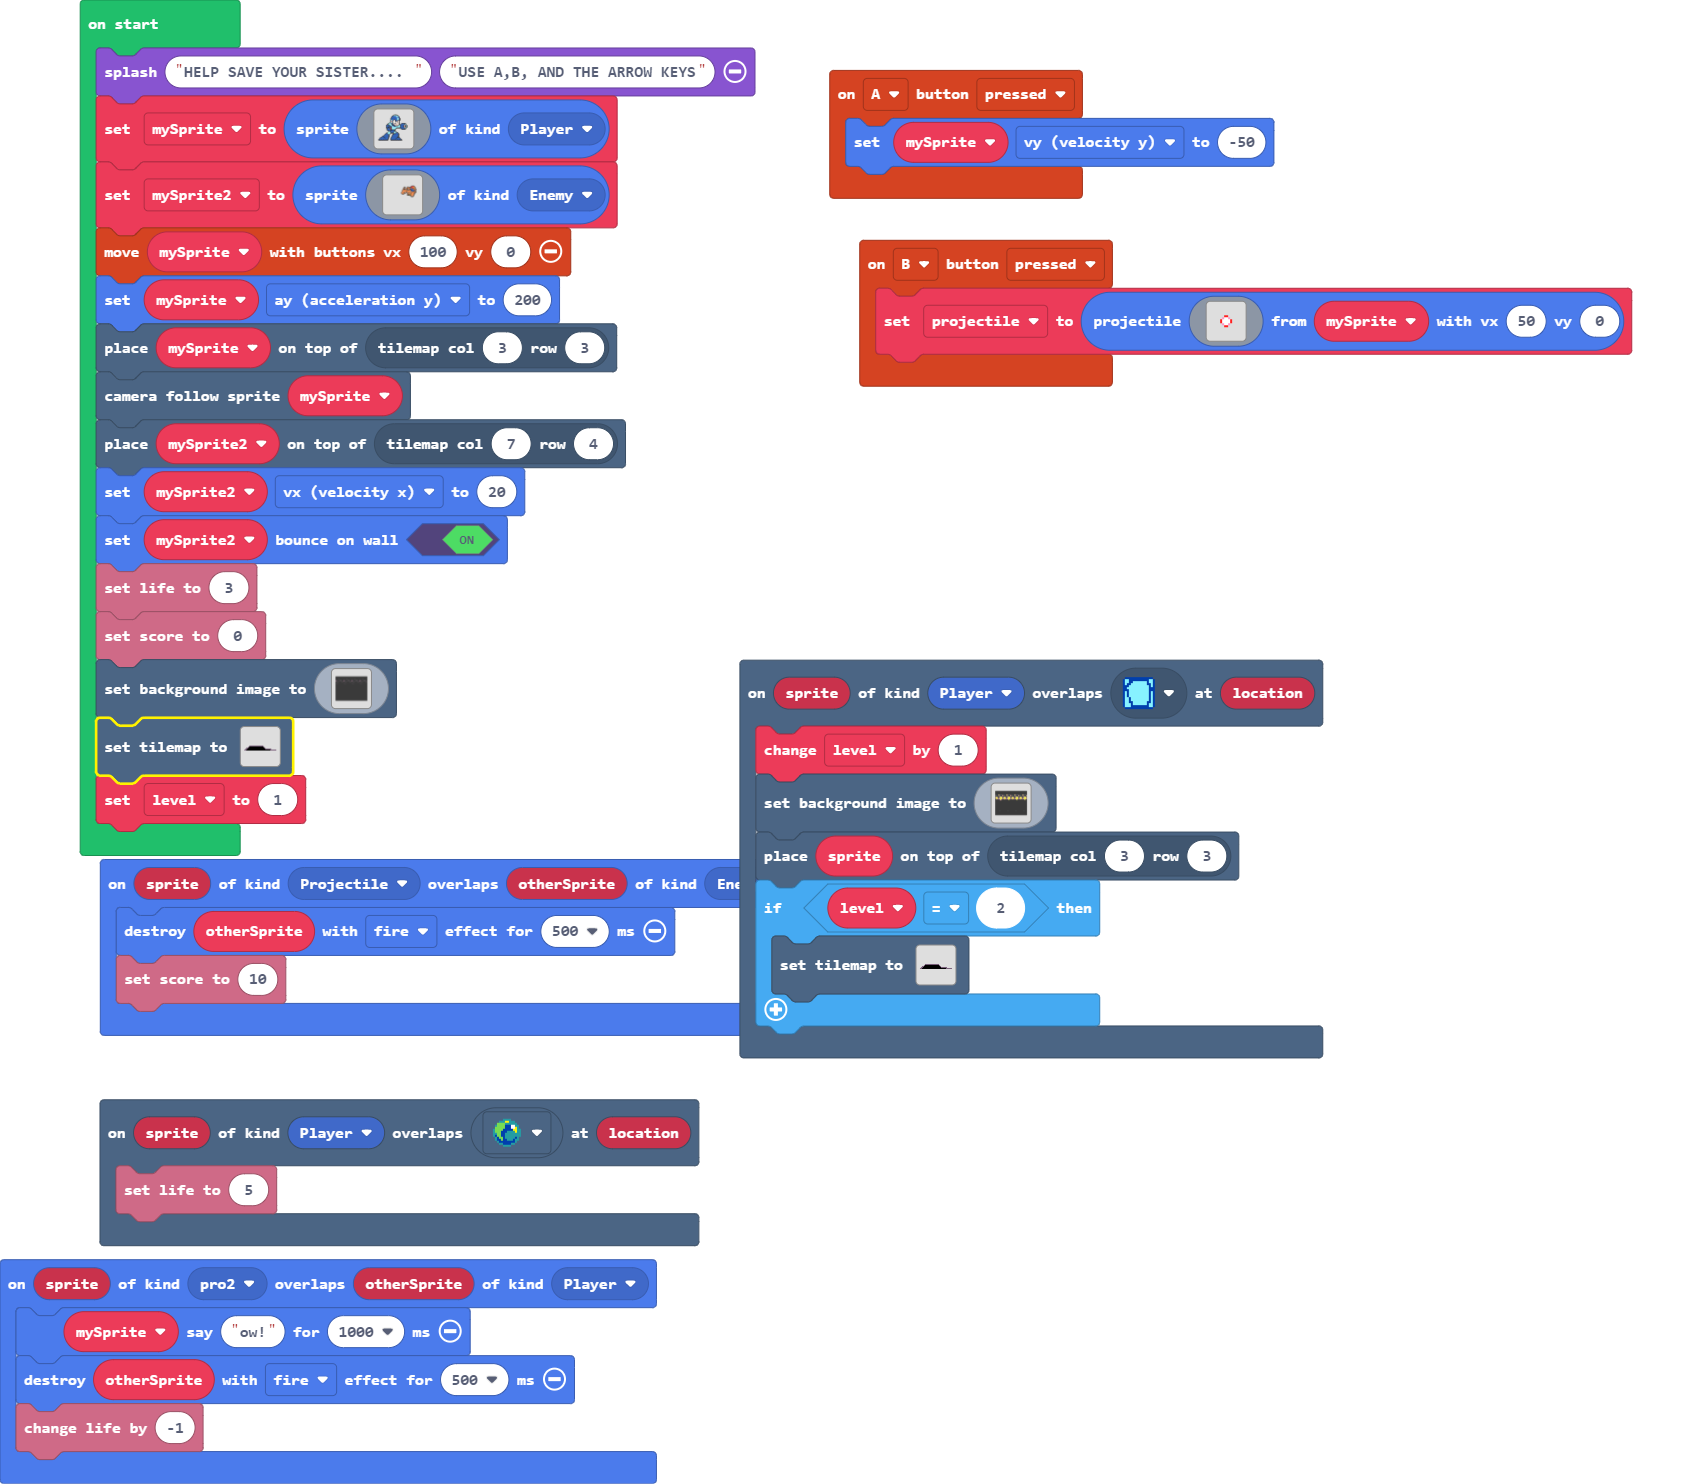
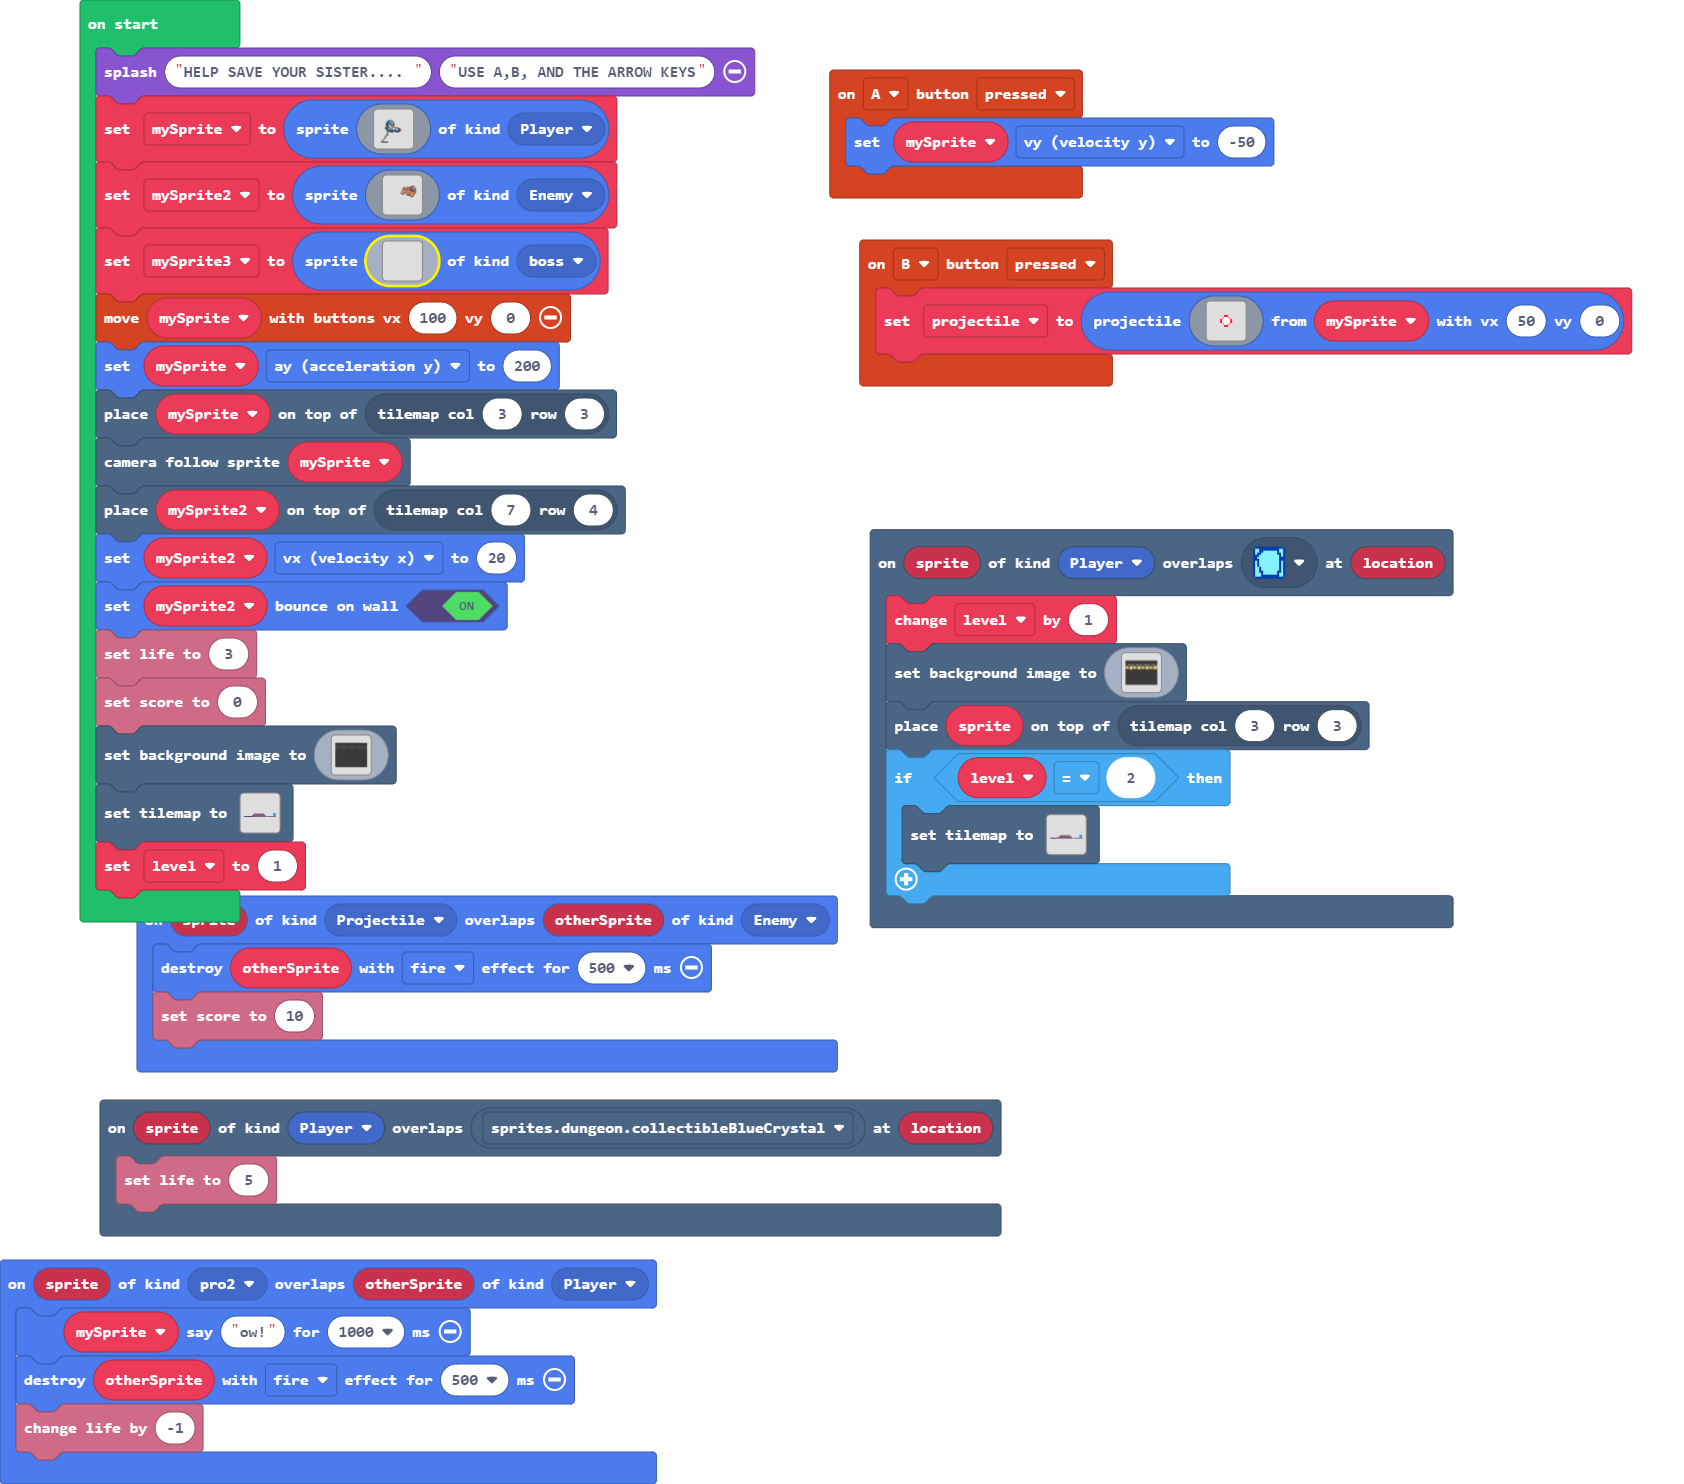
Update main.blocks, main.ts, tilemap.g.jres, tilemap.g.ts

Changed region(s): [[0.0309, 0.155, 0.8646, 0.8679], [0.8029, 0.186, 0.8337, 0.217], [0.2162, 0.062, 0.247, 0.093]]

diff --git a/main.ts b/main.ts
@@ -1,5 +1,6 @@
 namespace SpriteKind {
     export const pro2 = SpriteKind.create()
+    export const boss = SpriteKind.create()
 }
 controller.B.onEvent(ControllerButtonEvent.Pressed, function () {
     projectile = sprites.createProjectileFromSprite(img`
@@ -173,49 +174,49 @@ mySprite = sprites.create(img`
     ..................................................
     ..................................................
     ..................................................
-    .........................fffff....................
-    .......................ff99999ff..................
-    ......................f888888999f.................
-    .....................f88888889998f................
-    .....................f88888888888f................
-    ....................f8888888889998f...............
-    ....................f8888888889998f...............
-    ....................f8888ff8889998f...............
-    ...................f9998fd1f888ffff...............
-    ...................f929fd11ff8f1df................
-    ...................f929fd11f1ff1df................
-    ...................f929fd11f1df1df................
-    ..................ff999fdd111ddddf................
-    ................ff99f88fddffdddddf...ffffff.......
-    ...............f99999ff8fdddfddddf..f88888ff......
-    ..............ffff9999ff8fdddddddfff88888f99f.....
-    .............f8888f9998ff8fdddddf99f8888f92f9f....
-    .............f8888fff9988fffffff999f8888f92f9f....
-    .............f888f888f9998889999999f8888f92f9f....
-    .............f88ff88ff9999999999999f8888f92f9f....
-    .............fff8fff2f9999999fffffff88888f99f.....
-    ..............f8888f2f999999f.......f88888ff......
-    ..............f8888f2f99999f.........ffffff.......
-    ..............f88888fffffff.......................
-    ...............ff888ff8888f.......................
-    .................fff888888ff......................
-    ................f99f88888f99f.....................
-    ...............f9999f888f9999ff...................
-    .............ff99999fffff999f88f..................
-    ............f88f999f....ffff8888f.................
-    ...........f8888f9f....ff8888888f.................
-    ..........f888888f.....f88888888f.................
-    .........f8888888f....f888888888f.................
-    .......ff88888888f....f888888888f.................
-    ......f88f8888888f...f888888888ff.................
-    ....ff8888f88888f....f88888888ffff................
-    ...f8888888f8888f...f88888888f8888f...............
-    ..f8888888888888f...f8888888f888888f..............
-    .f8888888888888f....f888888888888888f.............
-    .fffffffffffffff....ffffffffffffffffff............
     ..................................................
     ..................................................
     ..................................................
+    ..................................................
+    ..................................................
+    ..................................................
+    ..................................................
+    ..................................................
+    ..................fff.............................
+    ................ff699ff...........................
+    ...............f8888698f..........................
+    ..............f888888998f.........................
+    ..............f888888899f.........................
+    .............f888f6682222f........................
+    .............f8ff66668212f........................
+    .............fff1f6ff6828f........................
+    .............ff2ffdd1f686f........................
+    ..............f2ffdd1ff6f.........................
+    .............f8ff9dddfdf..........................
+    ............f8888fddddddffff......................
+    ............f888fffdfddf1111fffff.................
+    ............f88f99fddddf111f89998ff...............
+    .............ff8699fffff11f86119ff2f..............
+    ..............ff86f8666881f88999ff2f..............
+    ..............f.f8f888888f888888ff2f..............
+    ...............f.ff8888ff.ff88888ff...............
+    ...............f...fffff....fffff.................
+    ...............f.......f..........................
+    ...............f..................................
+    ...............f..................................
+    ..............f...................................
+    ..............ff..................................
+    .............f....................................
+    ............f.....................................
+    ............f.....................................
+    ...........f......................................
+    ...........f......................................
+    ..........f.......................................
+    .........f........................................
+    ........f.........................................
+    .......f..........................................
+    ......f...........................................
+    ......ffffffffff..................................
     ..................................................
     ..................................................
     ..................................................
@@ -287,6 +288,40 @@ let mySprite2 = sprites.create(img`
     ................................................................
     ................................................................
     `, SpriteKind.Enemy)
+let mySprite3 = sprites.create(img`
+    ................................
+    ................................
+    ................................
+    ................................
+    ................................
+    ................................
+    ................................
+    ................................
+    ................................
+    ................................
+    ................................
+    ................................
+    ................................
+    ................................
+    ................................
+    ................................
+    ................................
+    ................................
+    ................................
+    ................................
+    ................................
+    ................................
+    ................................
+    ................................
+    ................................
+    ................................
+    ................................
+    ................................
+    ................................
+    ................................
+    ................................
+    ................................
+    `, SpriteKind.boss)
 controller.moveSprite(mySprite, 100, 0)
 mySprite.ay = 200
 tiles.placeOnTile(mySprite, tiles.getTileLocation(3, 3))

diff --git a/tilemap.g.ts b/tilemap.g.ts
@@ -29,16 +29,16 @@ namespace myTiles {
 . . . . . . . . . . . . . . . . 
 `, [myTiles.transparency16], TileScale.Sixteen);
             case "level1":
-            case "level1":return tiles.createTilemap(hex`2000080000000000000000000000000000000000000000000000000000000000000000000000000000000000000000000000000000000000000000000000000000000000000000000000000000000000000000000000000000000000000000000000000000000000000404040404040404040404040404000000000000000000000000000000000004010101010101010101010101010104000000000000000000000000000003020101010101010101010101010101010104000000000000000000000000030201010101010101010101010101010101010104040404040400000000000302010101010101010101010101010101010101010101010101040404040404`, img`
+            case "level1":return tiles.createTilemap(hex`2000080000000000000000000000000000000000000000000000000000000000000000000000000000000000000000000000000000000000000000000000000000000000000000000000000000000000000000000000000000000000000000000000000000000000000000000000000000000000000000000000000000000000000000000000000000000000000006060606060606060606000000000000000000080808000000000000000000050101010101010101010106000000000000000008080800000000000000000501010101010101010101010106000000000000000808080203030303030304010101010101010101010101010106070707070707070707`, img`
 . . . . . . . . . . . . . . . . . . . . . . . . . . . . . . . . 
 . . . . . . . . . . . . . . . . . . . . . . . . . . . . . . . . 
 . . . . . . . . . . . . . . . . . . . . . . . . . . . . . . . . 
 . . . . . . . . . . . . . . . . . . . . . . . . . . . . . . . . 
-. . . . . . . . . . . . . . . . . . . . . . . . . . . . . . . . 
-. . . . . . . . . . . . . . . . . . . . . . . . . . . . . . . . 
-. . . . . . . . . . . . . . . . . . . . . . . . . . . . . . . . 
-. . . . . . . . . . . . . . . . . . . . . . . . . . . . . . . . 
-`, [myTiles.transparency16,sprites.builtin.oceanDepths8,sprites.builtin.oceanDepths2,sprites.builtin.oceanDepths0,sprites.builtin.oceanDepths4], TileScale.Sixteen);
+. . . . . . . . . . 2 2 2 2 2 2 2 2 2 2 . . . . . . . . . . . . 
+. . . . . . . . . 2 . . . . . . . . . . 2 . . . . . . . . . . . 
+. . . . . . . . 2 . . . . . . . . . . . . 2 . . . . . . . . . . 
+2 2 2 2 2 2 2 2 . . . . . . . . . . . . . . 2 2 2 2 2 2 2 2 2 2 
+`, [myTiles.transparency16,sprites.builtin.oceanDepths0,sprites.dungeon.darkGroundNorthWest0,sprites.dungeon.darkGroundNorth,sprites.dungeon.darkGroundNorthEast0,sprites.dungeon.stairLarge,sprites.dungeon.floorMixed,sprites.builtin.coral4,myTiles.tile1], TileScale.Sixteen);
         }
         return null;
     })
